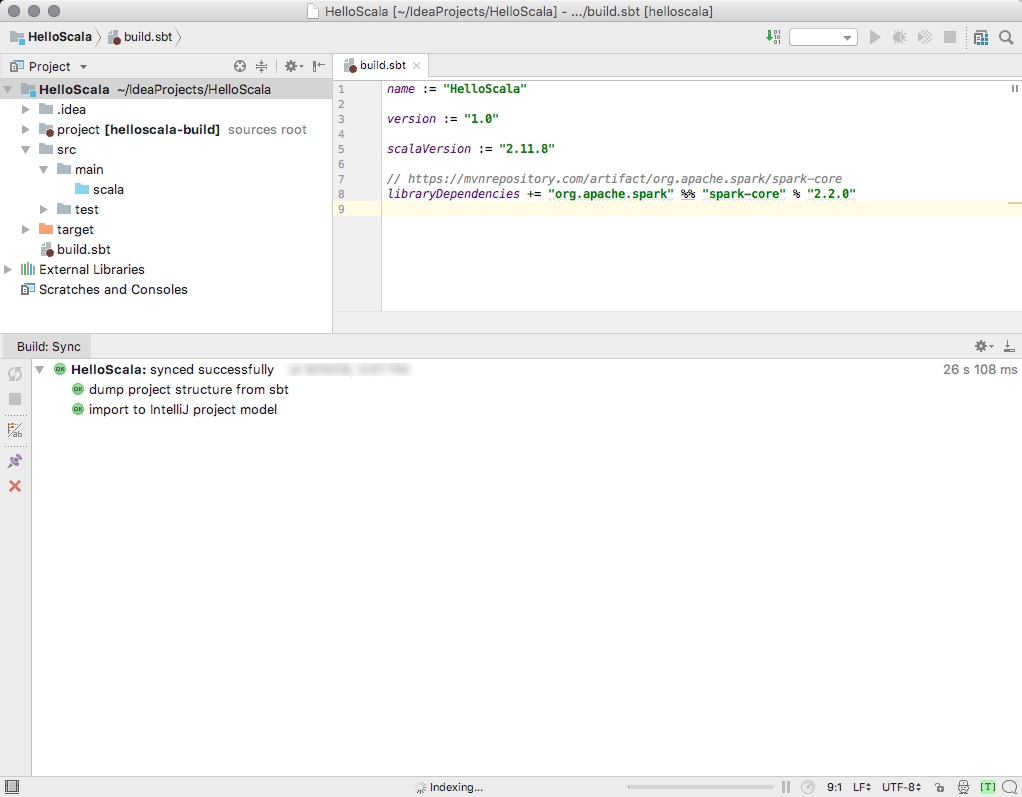
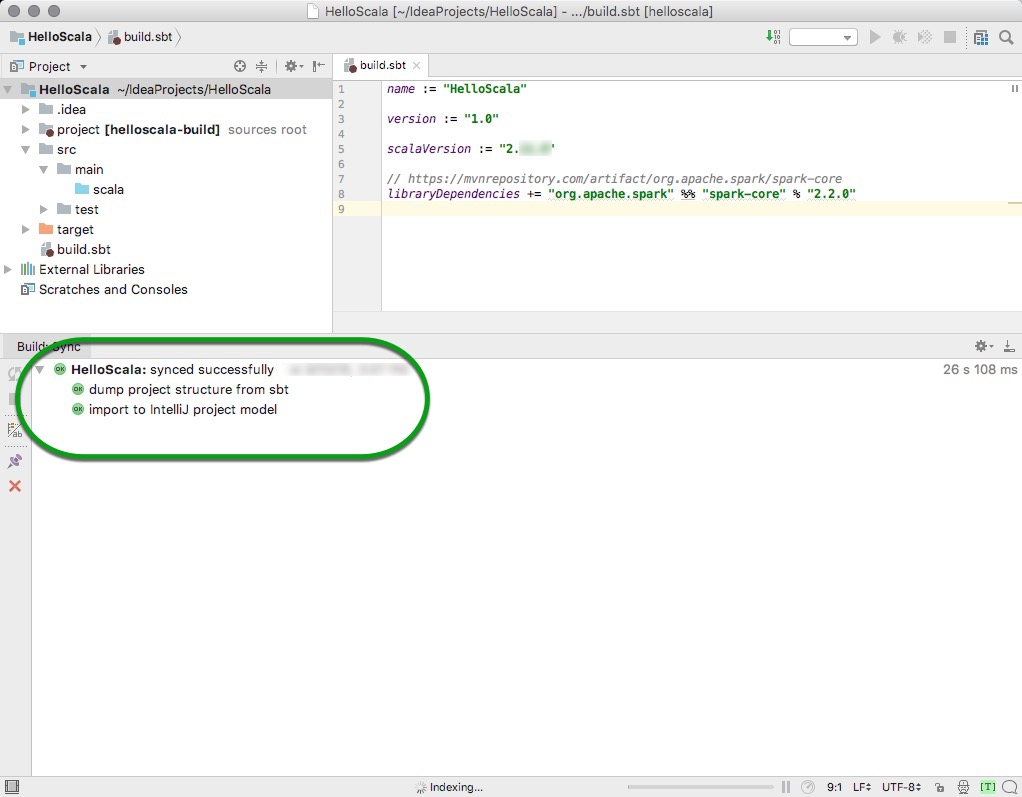
Clarification

Changed region(s): [[0.0303, 0.4216, 0.4247, 0.6023], [0.0, 0.4517, 0.0303, 0.542], [0.4853, 0.1807, 0.546, 0.2108]]

diff --git a/tutorials/hdp/setting-up-a-spark-development-environment-with-scala/tutorial.md b/tutorials/hdp/setting-up-a-spark-development-environment-with-scala/tutorial.md
@@ -96,6 +96,8 @@ scalaVersion := "2.11.12"
 libraryDependencies += "org.apache.spark" %% "spark-core" % "2.2.0"
 ~~~
 
+Ensure that your changes are imported without any issues:
+
 ![intellij-sbt-file](assets/intellij-sbt-file.jpg)
 
 After you save the file, IntelliJ will automatically import the libraries and documentation needed to run Spark.
